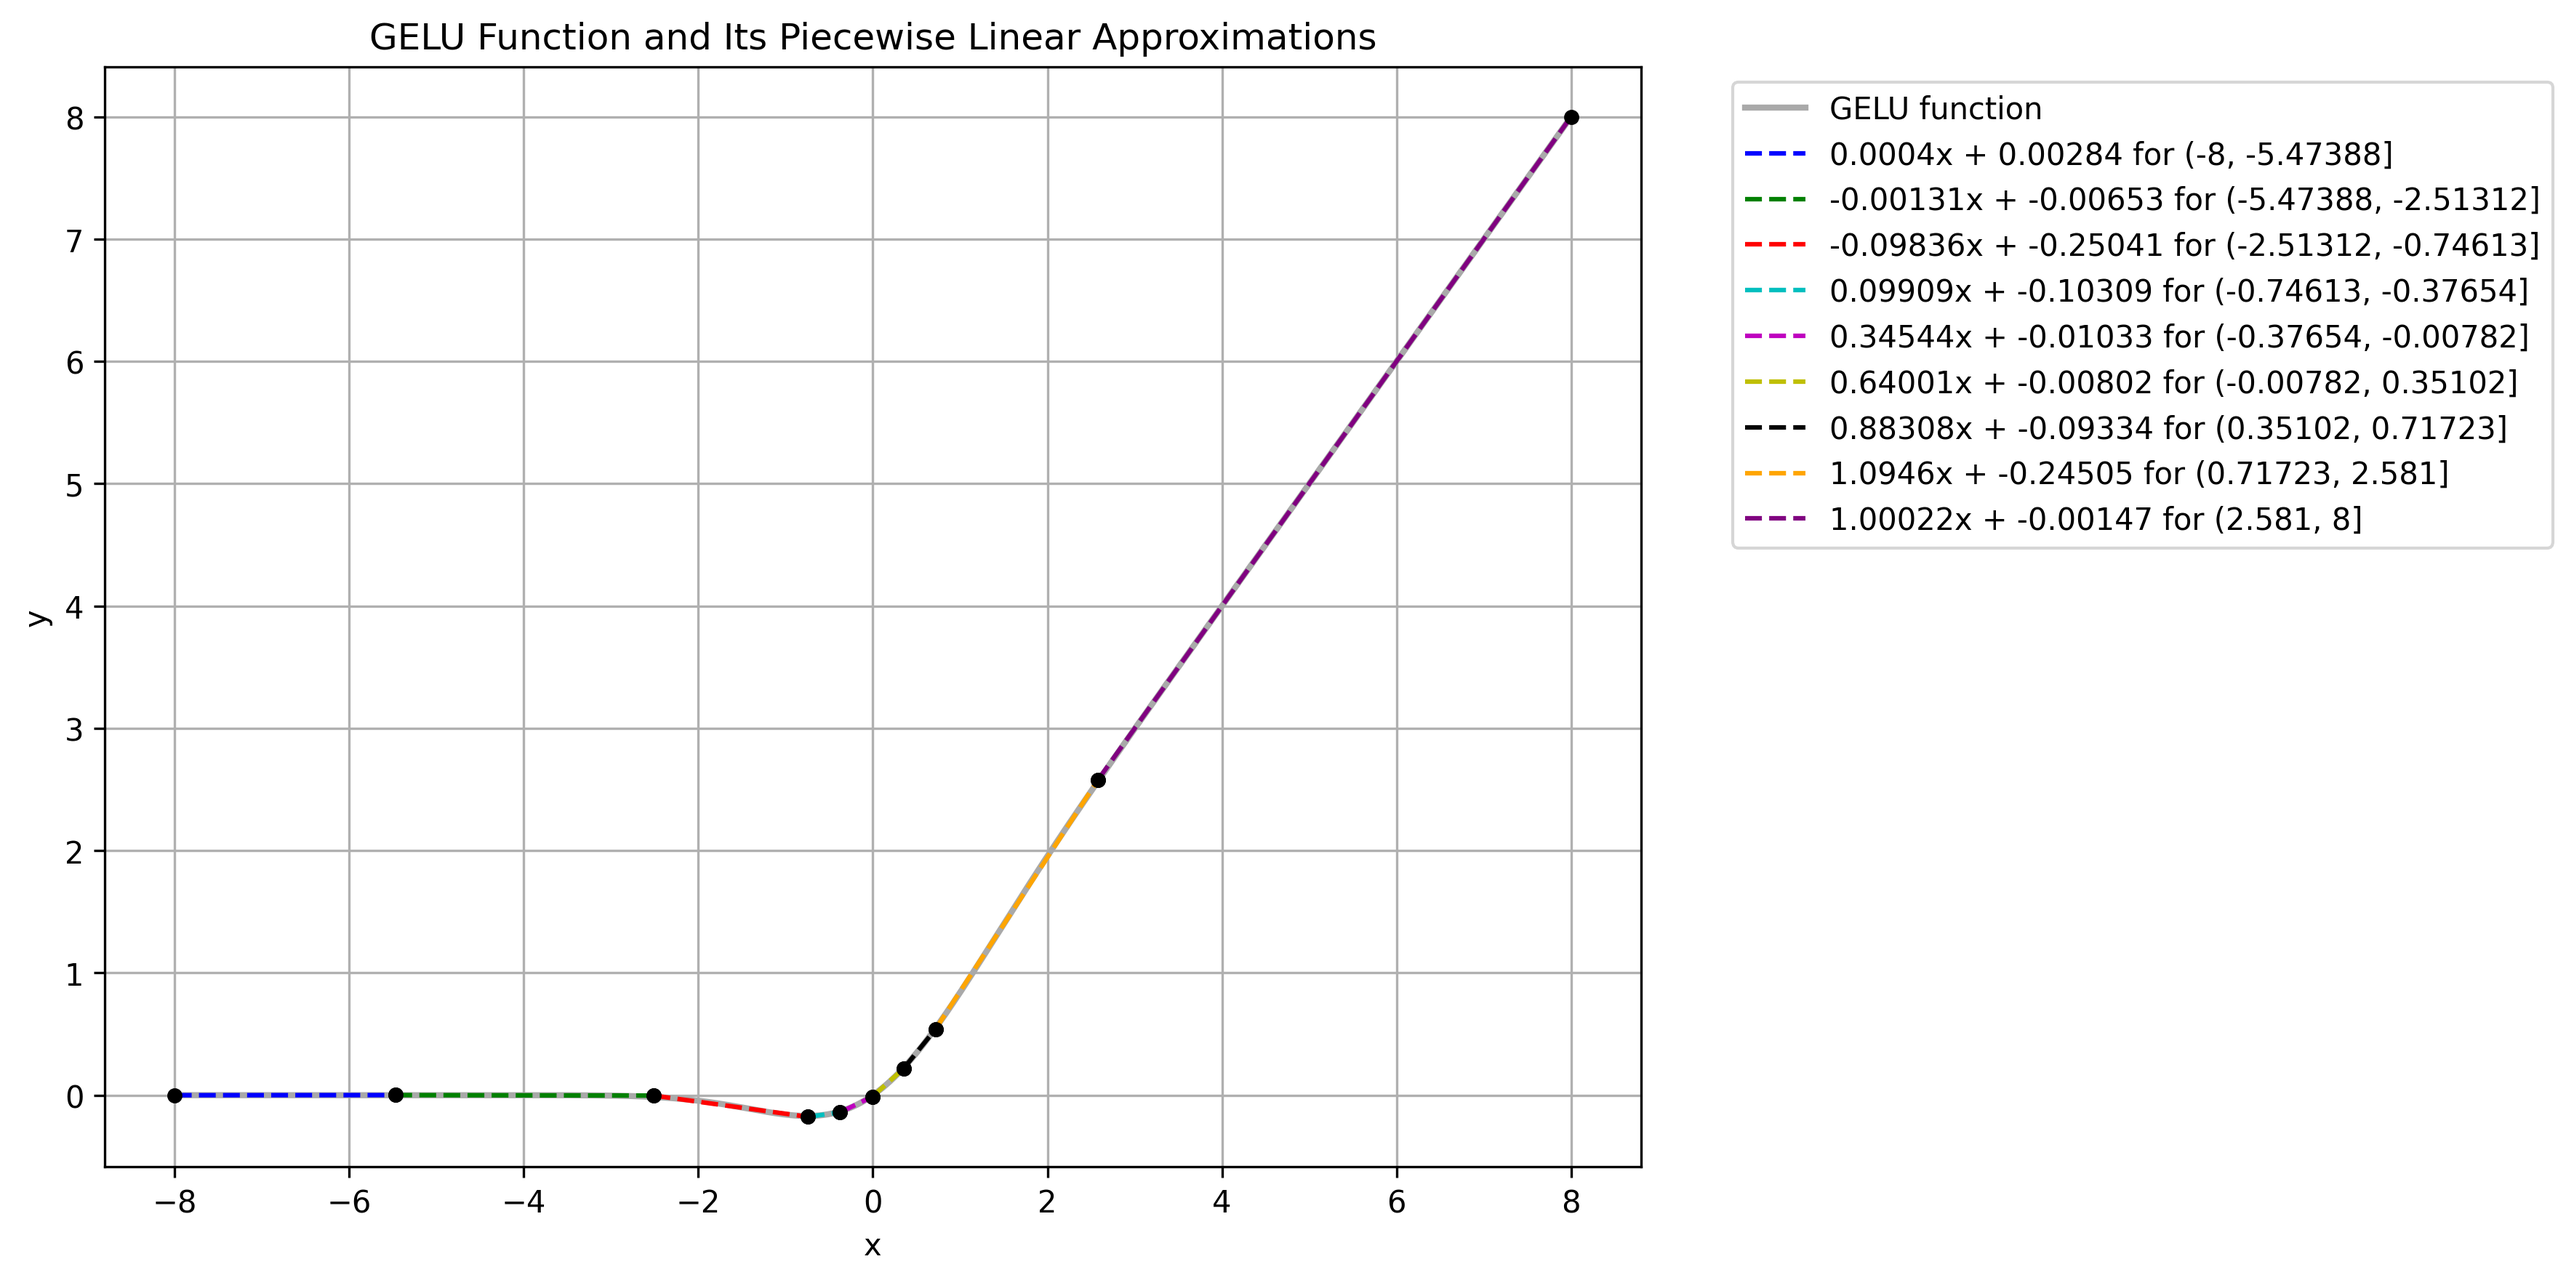
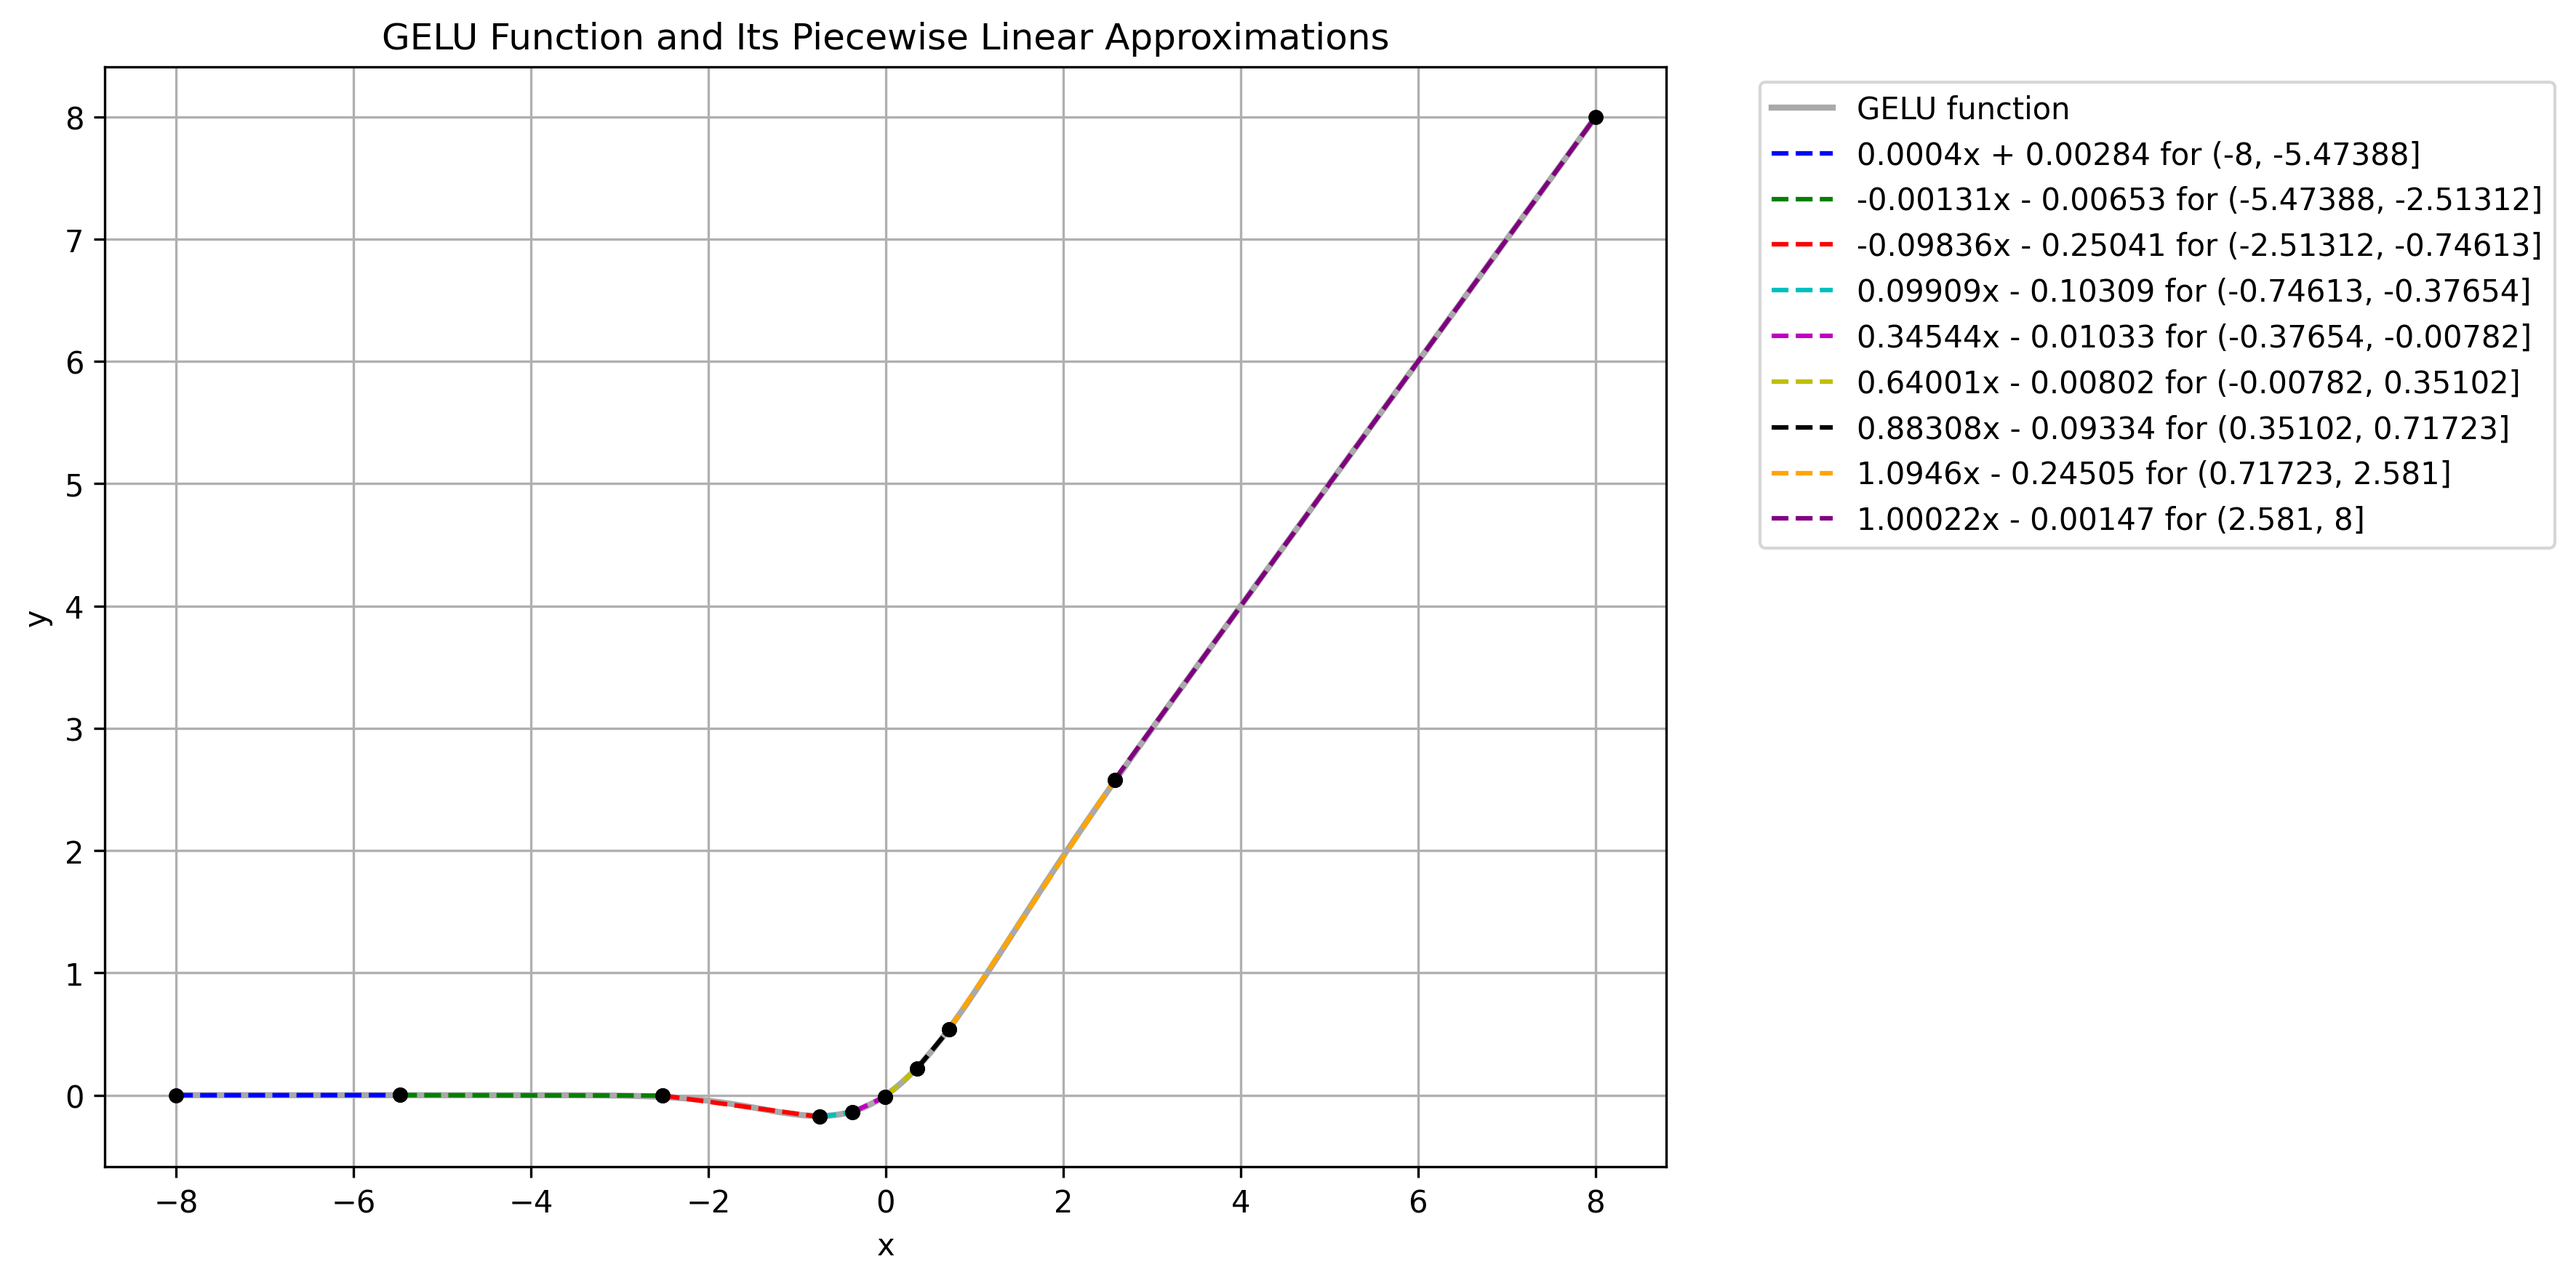
Fixed the approximation_visualization.py for Combined_approximation_visualization.png so that the problem of + sign being in front of negative values was fixed. Now either the + or the - is shown on the legend.

diff --git a/approximation_visualization.py b/approximation_visualization.py
@@ -139,9 +139,19 @@ for function, function_name, range_list, a_list, b_list in zip(functions, functi
         x_piecewise = np.linspace(range_list[i][0], range_list[i][1], 500)
         y_piecewise = [piecewise_linear_approx(j, [range_list[i]], [a_list[i]], [b_list[i]]) for j in x_piecewise]
 
-        # comma to unpack tuple
-        line, = ax.plot(x_piecewise, y_piecewise, label=f"{a_list[i]}x + {b_list[i]} for ({range_list[i][0]}, {range_list[i][1]}]", linestyle='dashed',
-                color=colors[i])
+        # avoid the duplication of signs by checking the sign of b_list[i] first
+        if b_list[i] < 0: # when b_list[i] is negative, there used to be + - sign side by side
+            # comma to unpack tuple
+            line, = ax.plot(x_piecewise, y_piecewise,
+                            label=f"{a_list[i]}x - {abs(b_list[i])} for ({range_list[i][0]}, {range_list[i][1]}]",
+                            linestyle='dashed',
+                            color=colors[i])
+        else: # b_list[i] >= 0, no need to change the sign as it is positive
+            # comma to unpack tuple
+            line, = ax.plot(x_piecewise, y_piecewise,
+                            label=f"{a_list[i]}x + {b_list[i]} for ({range_list[i][0]}, {range_list[i][1]})",
+                            linestyle='dashed',
+                            color=colors[i])
         lines.append(line)
         ax.plot(range_list[i][0], piecewise_linear_approx(range_list[i][0], [range_list[i]], [a_list[i]], [b_list[i]]),
                 marker_colors[foo], markersize=4)  # lower bound
